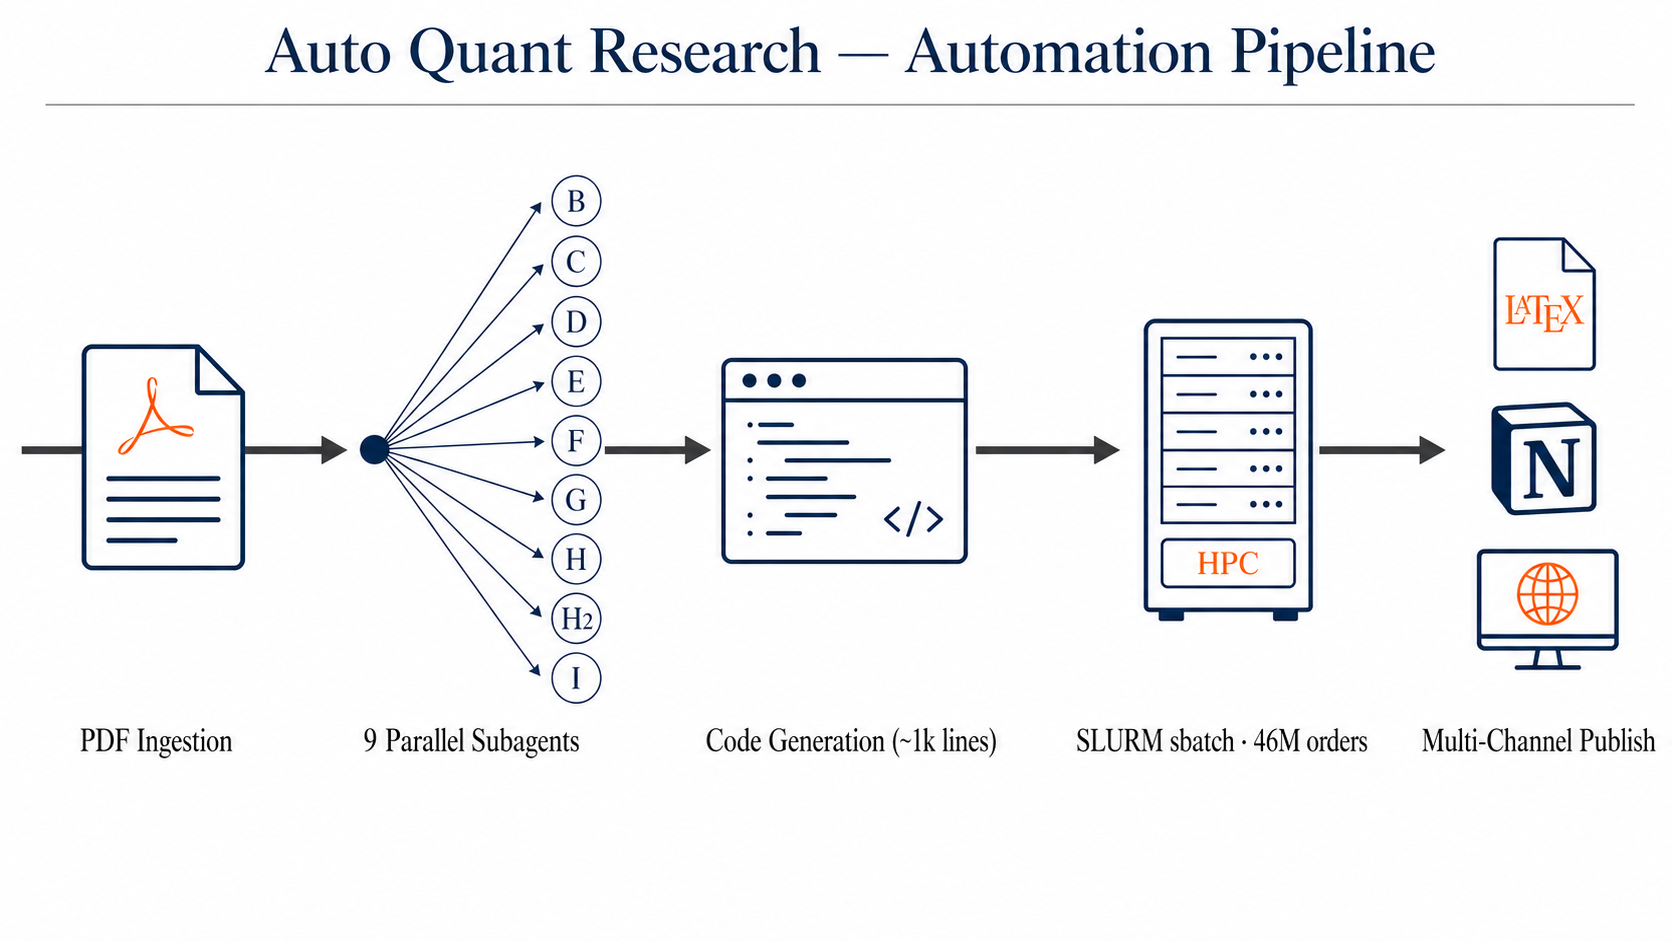
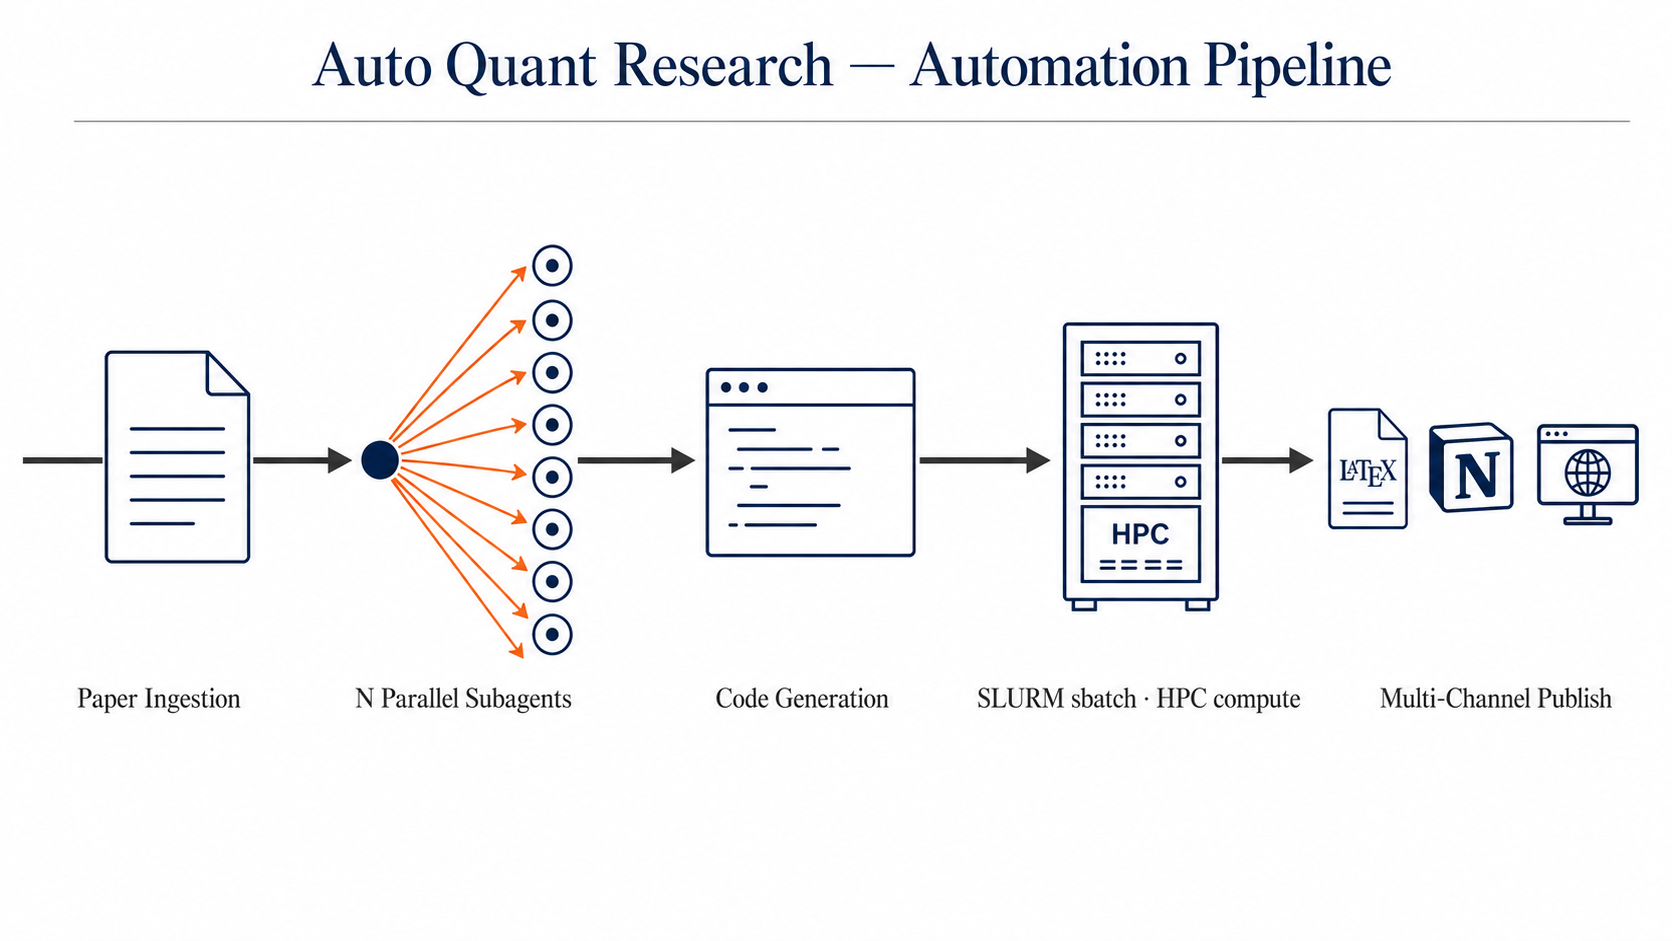
feat(site): replace pipeline figure + prose with general (task-agnostic) version
User feedback: 'your pipeline timing settings are wrong — should support
multiple tasks generally, not just one.' Auto Quant Research is supposed
to be a general system; the figure and prose should reflect that.

Figure changes (v2 -> v3, same style):
- '9 Parallel Subagents' -> 'N Parallel Subagents'
- '~3 min' (timing) -> removed
- '46M orders' (Dugast specific) -> 'HPC compute'
- 'Code Generation (~1k lines)' -> 'Code Generation'
- Agent circles now anonymous (no B/C/D/.../I letter labels)

Prose changes:
- 'Nine parallel subagents (B,C,D,E,F,G,H,H2,I)' -> 'N parallel subagents'
- '~3 min' wall-clock removed
- Now describes that count is task-dependent
- New caption explicitly notes generality

Both v2 (style-approved, task-specific) and v3 (current deploy, general)
are preserved with timestamps in tasks/auto_research/figures/. STYLE_GUIDE.md
documents both as historical snapshots.

diff --git a/index.html b/index.html
@@ -464,13 +464,13 @@
       <!-- ========== AUTOMATION PIPELINE ========== -->
       <h2>Automation Pipeline</h2>
       <p>
-        Nine parallel subagents (B, C, D, E, F, G, H, H2, I) are dispatched simultaneously within approximately three minutes after paper ingestion. Each handles one slice of the design or implementation task. The orchestrator merges their outputs, commits to Git, and sbatches the analysis.
+        After a paper is ingested, the Execution Layer dispatches a fan-out of <strong>N parallel subagents</strong> (the count is task-dependent: simple regression replications use a handful; structural model identification uses more). Each subagent owns one slice of the design or implementation work, the data pipeline, the World Model interface, the empirical regression spec, the figure code, and so on. The orchestrator merges their outputs, commits the result to Git for full traceability, and sbatches the analysis to the HPC cluster.
       </p>
 
       <div style="margin: 30px 0;">
-        <img src="imgs/automation_pipeline.png" alt="Auto Quant Research — Automation Pipeline" style="width: 100%; max-width: 900px; border: 1px solid #d0d0d0; border-radius: 6px;">
+        <img src="imgs/automation_pipeline.png" alt="Auto Quant Research — Automation Pipeline (general)" style="width: 100%; max-width: 900px; border: 1px solid #d0d0d0; border-radius: 6px;">
         <p style="text-align: center; color: #777; font-size: 13px; margin-top: 8px; font-style: italic;">
-          Figure 1. Six-stage automation pipeline from PDF ingestion to multi-channel publish. Generated by codex CLI (gpt-image-2).
+          Figure 1. Five-stage automation pipeline: Paper Ingestion → N Parallel Subagents (fan-out) → Code Generation → SLURM sbatch on HPC → Multi-Channel Publish (Overleaf, Notion, GitHub Pages). Captions are intentionally generic; this is a system designed to handle any finance microstructure paper, not a single task.
         </p>
       </div>
 
